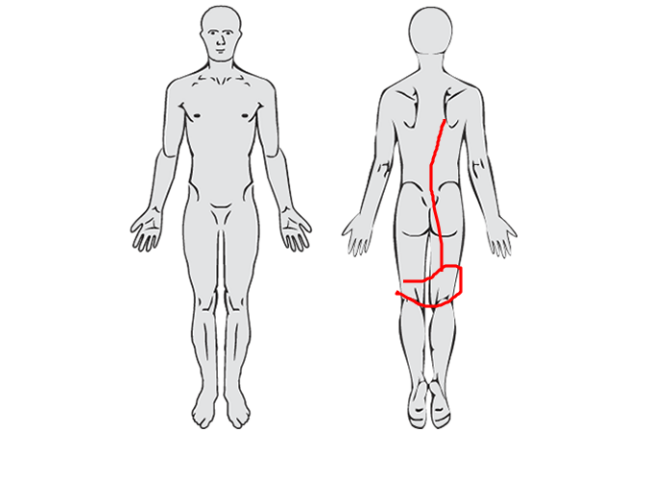
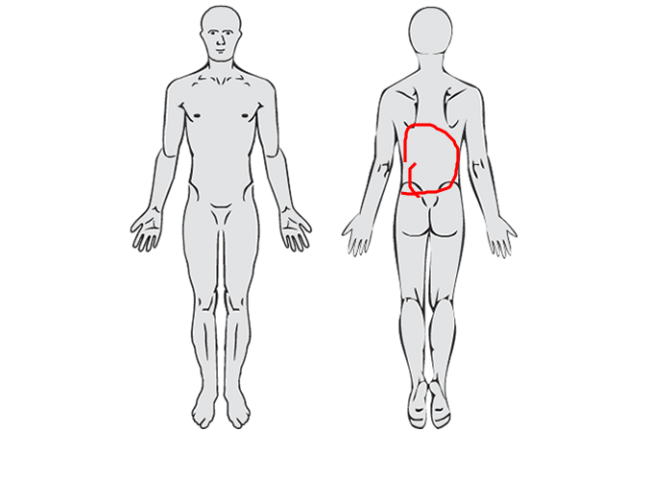
README with new data

Changed region(s): [[0.5938, 0.25, 0.6875, 0.5], [0.5938, 0.5, 0.6875, 0.6562]]

diff --git a/README.md b/README.md
@@ -57,31 +57,22 @@ the `pdr_data` column plus a few covariates:
 ``` r
 library(paindrawr)
 library(tidyverse)
-#> ── Attaching core tidyverse packages ──────────────────────── tidyverse 2.0.0 ──
-#> ✔ dplyr     1.2.1     ✔ readr     2.2.0
-#> ✔ forcats   1.0.1     ✔ stringr   1.6.0
-#> ✔ ggplot2   4.0.3     ✔ tibble    3.3.1
-#> ✔ lubridate 1.9.5     ✔ tidyr     1.3.2
-#> ✔ purrr     1.2.2     
-#> ── Conflicts ────────────────────────────────────────── tidyverse_conflicts() ──
-#> ✖ dplyr::filter() masks stats::filter()
-#> ✖ dplyr::lag()    masks stats::lag()
-#> ℹ Use the conflicted package (<http://conflicted.r-lib.org/>) to force all conflicts to become errors
 
-pdr_example_tibble
-#> # A tibble: 50 × 5
-#>    pdr_data            sex   age duration  pain
-#>    <list>            <int> <dbl> <chr>    <dbl>
-#>  1 <named list [10]>     0  47.6 Subacute     4
-#>  2 <named list [10]>     1  66.4 Acute        2
-#>  3 <named list [10]>     1  25.8 Subacute     2
-#>  4 <named list [10]>     1  23.1 Acute        5
-#>  5 <named list [10]>     1  54.5 Chronic      3
-#>  6 <named list [10]>     1  24.2 Subacute    10
-#>  7 <named list [10]>     0  86.8 Acute        6
-#>  8 <named list [10]>     1  18   Subacute    10
-#>  9 <named list [10]>     0  52.5 Chronic     10
-#> 10 <named list [10]>     0  39.7 Subacute     4
+pdr_example_data <- pdr_example_data |> as_tibble()
+pdr_example_data
+#> # A tibble: 50 × 6
+#>    id                               pdr_data          sex     age duration  pain
+#>    <chr>                            <list>            <fct> <dbl> <fct>    <dbl>
+#>  1 6d63804892233bbb18bc21bcf0d81d0d <named list [10]> 1      34.6 Acute        9
+#>  2 c8b12cd45d08e94241d4de9990d60f71 <named list [10]> 1      64.6 Acute        0
+#>  3 25062ac7dbeb08d8b532ac474a7849ca <named list [10]> 1      43.6 Acute       10
+#>  4 0dc657fa6ed70150f9596fe692f2f9a0 <named list [10]> 1      52.7 Subacute     0
+#>  5 fb61c33ffa09270a5c7931813e9d2d71 <named list [10]> 0      33   Subacute     3
+#>  6 328d31503202db3e5c1b8e78f287810e <named list [10]> 0      18   Chronic      4
+#>  7 e07d8d7e7034ba3ae7f907de022af58d <named list [10]> 1      21.5 Acute        4
+#>  8 9996f1a95c8e939c6ab6258bfc76f722 <named list [10]> 0      31.8 Chronic     10
+#>  9 41aa308e694ad270b7cfaea054c7c1a2 <named list [10]> 1      83.3 Chronic      0
+#> 10 0bcfd36a71b799e857f13c29011d21ff <named list [10]> 0      59   Acute        5
 #> # ℹ 40 more rows
 ```
 
@@ -91,21 +82,21 @@ add drawing-level metadata as new columns with `mutate()` — for example
 the canvas width of each drawing:
 
 ``` r
-pdr_example_tibble |>
+pdr_example_data|>
   mutate(width = pdr_get_info(pdr_data, var = ".width"))
-#> # A tibble: 50 × 6
-#>    pdr_data            sex   age duration  pain width
-#>    <list>            <int> <dbl> <chr>    <dbl> <int>
-#>  1 <named list [10]>     0  47.6 Subacute     4   450
-#>  2 <named list [10]>     1  66.4 Acute        2   450
-#>  3 <named list [10]>     1  25.8 Subacute     2   450
-#>  4 <named list [10]>     1  23.1 Acute        5   450
-#>  5 <named list [10]>     1  54.5 Chronic      3   450
-#>  6 <named list [10]>     1  24.2 Subacute    10   450
-#>  7 <named list [10]>     0  86.8 Acute        6   450
-#>  8 <named list [10]>     1  18   Subacute    10   450
-#>  9 <named list [10]>     0  52.5 Chronic     10   450
-#> 10 <named list [10]>     0  39.7 Subacute     4   450
+#> # A tibble: 50 × 7
+#>    id                              pdr_data     sex     age duration  pain width
+#>    <chr>                           <list>       <fct> <dbl> <fct>    <dbl> <int>
+#>  1 6d63804892233bbb18bc21bcf0d81d… <named list> 1      34.6 Acute        9   450
+#>  2 c8b12cd45d08e94241d4de9990d60f… <named list> 1      64.6 Acute        0   450
+#>  3 25062ac7dbeb08d8b532ac474a7849… <named list> 1      43.6 Acute       10   450
+#>  4 0dc657fa6ed70150f9596fe692f2f9… <named list> 1      52.7 Subacute     0   450
+#>  5 fb61c33ffa09270a5c7931813e9d2d… <named list> 0      33   Subacute     3   450
+#>  6 328d31503202db3e5c1b8e78f28781… <named list> 0      18   Chronic      4   450
+#>  7 e07d8d7e7034ba3ae7f907de022af5… <named list> 1      21.5 Acute        4   450
+#>  8 9996f1a95c8e939c6ab6258bfc76f7… <named list> 0      31.8 Chronic     10   450
+#>  9 41aa308e694ad270b7cfaea054c7c1… <named list> 1      83.3 Chronic      0   450
+#> 10 0bcfd36a71b799e857f13c29011d21… <named list> 0      59   Acute        5   450
 #> # ℹ 40 more rows
 ```
 
@@ -115,7 +106,7 @@ pdr_example_tibble |>
 coordinates. Pipe in a single row of the tibble:
 
 ``` r
-pdr_example_tibble |>
+pdr_example_data|>
   head(1) |>
   pdr_plot_drawing()
 ```
@@ -130,7 +121,7 @@ they include the background image that used during datacollection.
 ``` r
 background <- png::readPNG("inst/extdata/mird_body_background.png")
 
-pdr_example_tibble |>
+pdr_example_data|>
   head(1) |>
   pdr_plot_drawing(
     background_image = background
@@ -146,7 +137,7 @@ optionally stratified by one or two grouping variables. Here we stratify
 by symptom duration:
 
 ``` r
-pdr_example_tibble |>
+pdr_example_data|>
   pdr_plot_heatmap(
     variables = "duration", 
     background_image = background)
